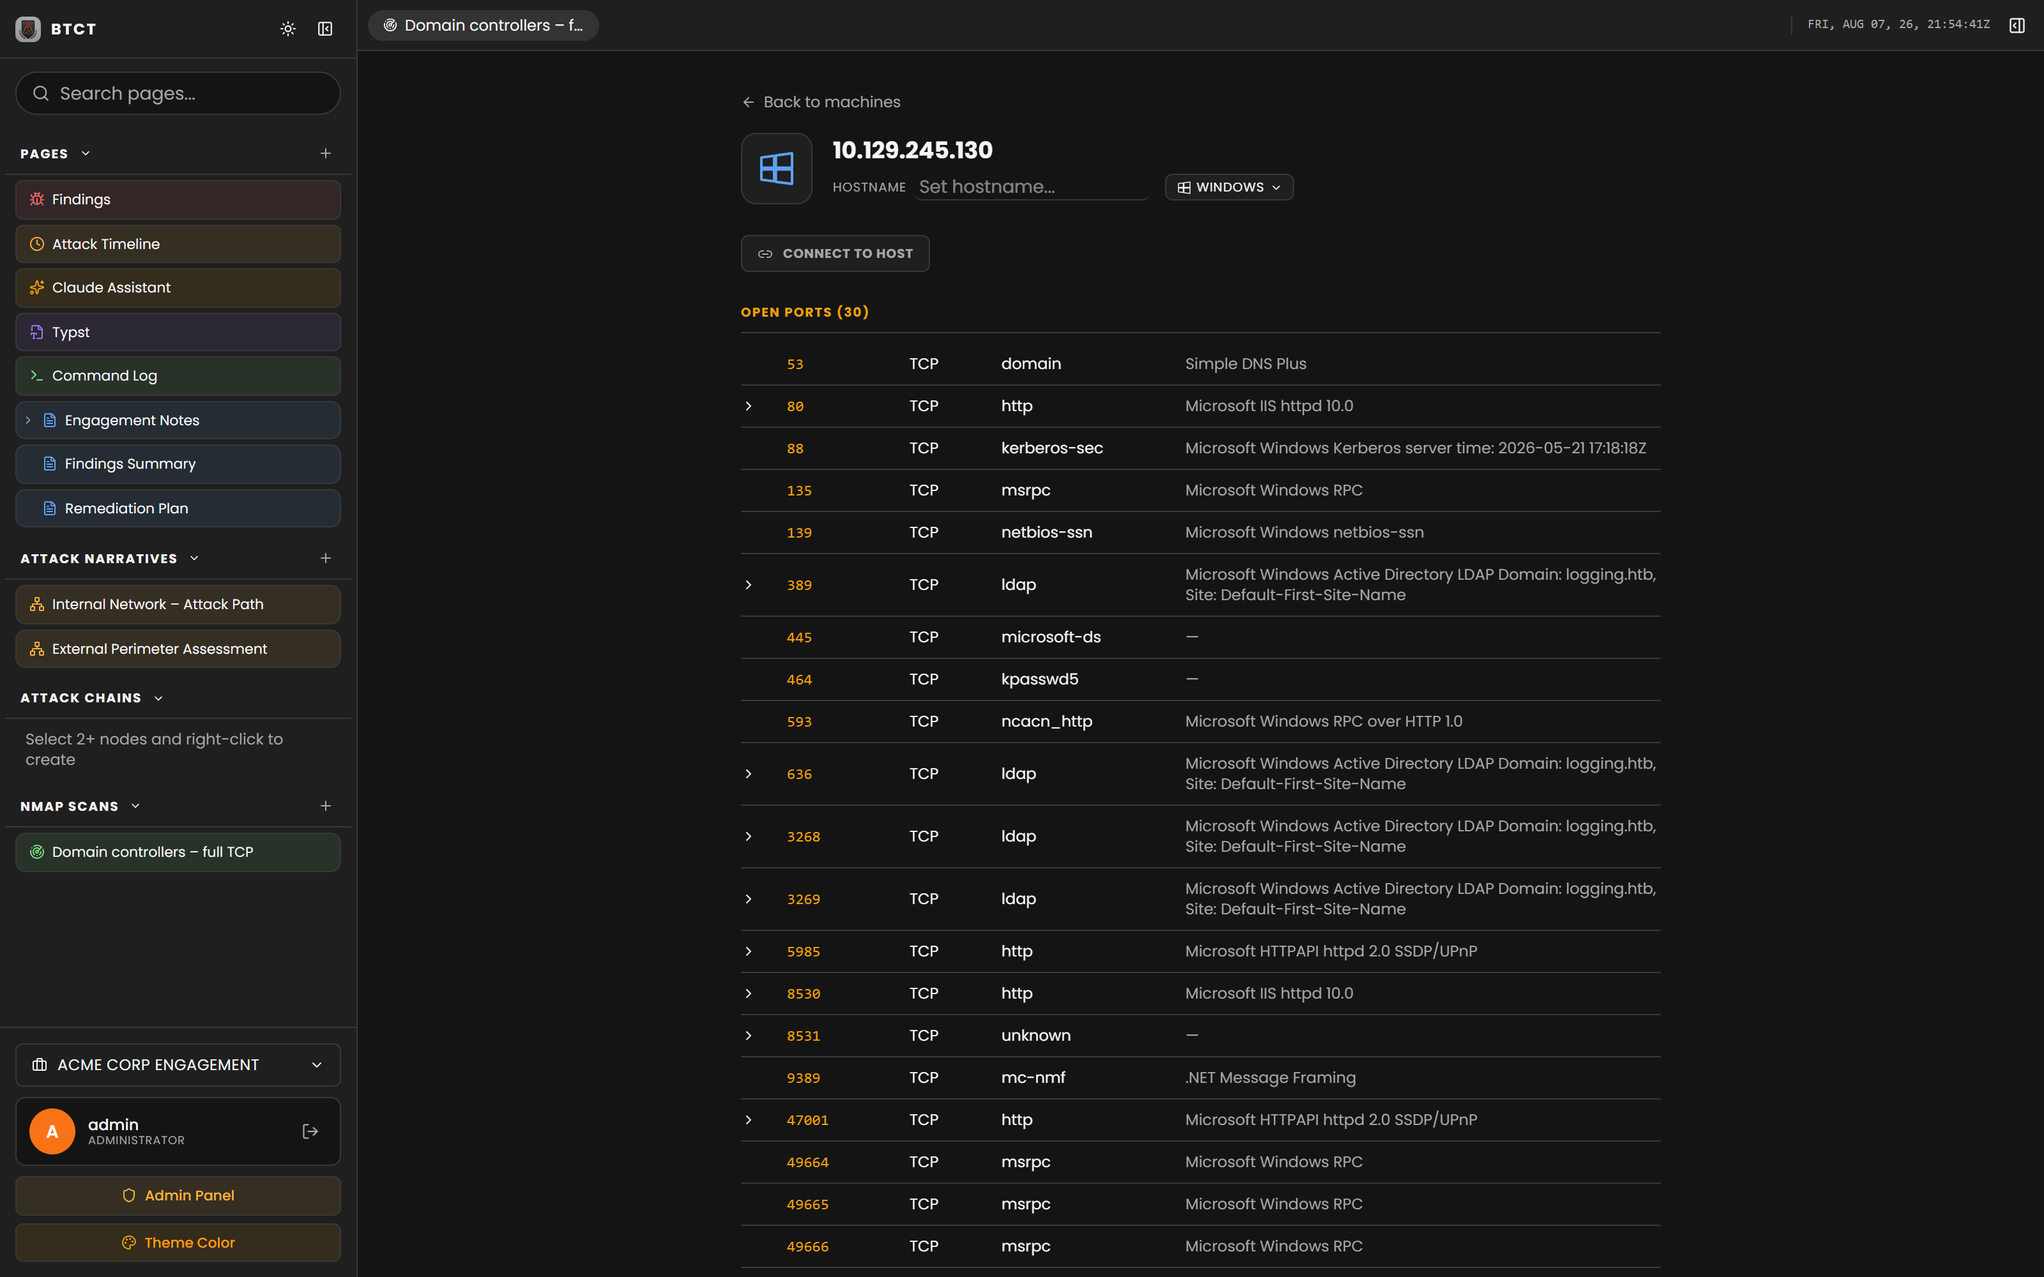
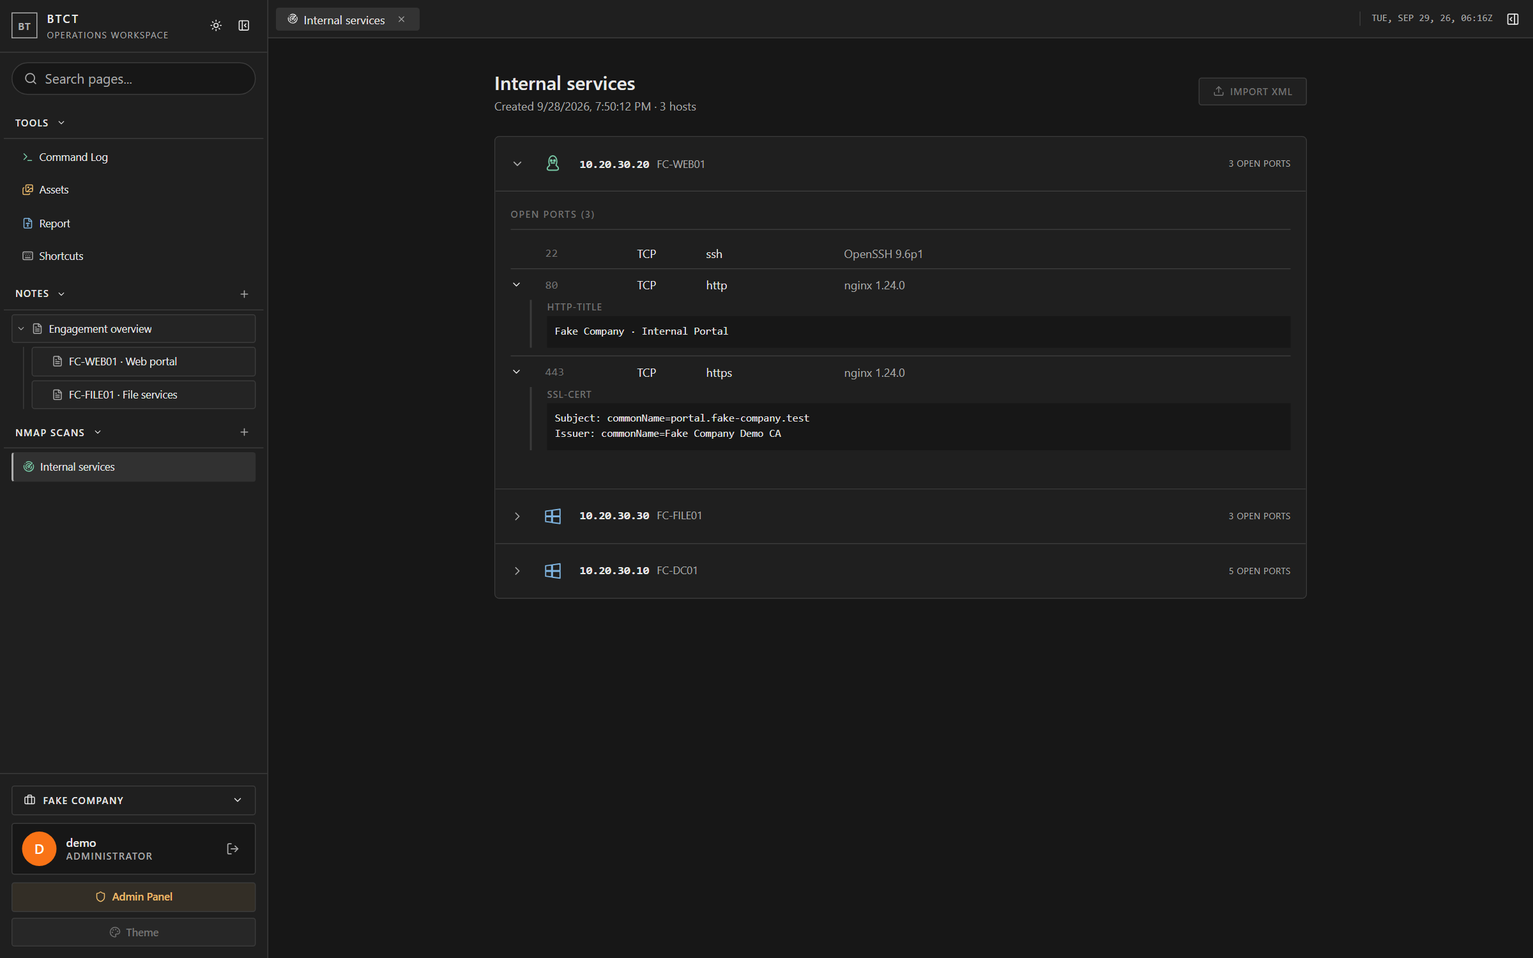
Refocus BTCT post on team workflow and refresh screenshots

diff --git a/_posts/2026-08-08-been-there-conquered-that.md b/_posts/2026-08-08-been-there-conquered-that.md
@@ -1,175 +1,184 @@
----
+---
 title: "How about we not take our pentesting notes in Microsoft Word"
 date: 2026-08-08 00:00:00 -0400
 categories: [Projects, Security Tooling]
-tags: [pentest, cptc, reporting, crdt, typst, react, claude, mcp]
-description: "Been There, Conquered That: a real-time notes and reporting workspace for a collegiate pentest competition."
+tags: [pentest, cptc, reporting, collaboration, self-hosted]
+description: "Why I built Been There, Conquered That: shared pentest notes, scans, and evidence that a team can run on a small machine on its own network."
 ---
 
-*Been There, Conquered That: a real-time notes and reporting workspace for a
-collegiate pentest competition.*
-
-<video class="embed-video file" controls muted loop width="960" style="max-width:100%;height:auto">
-  <source src="/assets/img/posts/btct/btct-demo.mp4" type="video/mp4">
-  Your browser does not support the video tag. Here is a
-  <a href="/assets/img/posts/btct/btct-demo.mp4">link to the video file</a> instead.
-</video>
-
-*Full-quality 1920x1080 clip, one take against a small demo workspace called Fake Company.*
+*Been There, Conquered That: a shared workspace for pentest notes and reporting,
+built to run on a small machine on the team's local network.*
 
 ## Why
 
-All of it went in one Word document. Five of us, same document, all day.
+During collegiate pentest competitions, our team used a shared Word document
+to keep track of our work. It let everyone write in the same place, but as the
+notes grew, it became harder to find a specific command, screenshot, or result.
+Writing the report often meant asking teammates where they'd saved something
+or what a particular note referred to.
 
-To be fair, that mostly works. Word handles five cursors without complaining and
-nothing gets lost. But a few hours things get a little messey and there is alot of back and fourth of where is stuff located and when writing asking the question of who did this and where did you write it down.
+We already use Notion or Obsidian for our own notes, so I wanted a similar way
+to organize our competition work. Separate pages, a sidebar to navigate them,
+and properly formatted code blocks would make it easier to follow what
+everyone was doing.
 
-What actually bothered me is that none of us take notes like that anywhere else.
-We all use Notion or Obsidian for our own stuff, with linked pages, tags, a
-sidebar you can navigate, code blocks that look like code. Then we'd sit down for
-the one weekend of the year that matters and drop straight back to using Word because that's what we have to use.
-
-We did have one purpose-built tool. We ran
+We also used
 [SLORPIN](https://github.com/nationalcptc-teamtools/Cal-Poly-Pomona/tree/master/SLORPIN),
-Cal Poly Pomona's nmap aggregator, which stands for Some Lone Operator Remakes
-Program Intended for Nmap. It's a Go and Gin web app that pulls everyone's scan
-results into one database behind a login, organized into named operations, so you
-can review the team's recon in one place instead of on five separate boxes. That
-part was genuinely useful and it's the reason this project exists at all. But it
-only covers recon, it doesn't sync in real time, and it wasn't something you
-wanted to stare at on hour thirty of a competition.
+Cal Poly Pomona's nmap aggregator, to collect the team's network scans in one
+place. Having those results together was useful, and I wanted a similar place
+for our notes and evidence so we could start writing the report without first
+tracking down everyone's files.
 
-So why not just build the rest of it? Word is fine. It just isn't built
-for this, and there's no rule saying the workflow you use for the
-highest-pressure three days of the year has to be the one you're using for class assignments.
+That's where Been There, Conquered That, or BTCT, came from. It gives the team a
+shared place to work, hosted on the same local network as their machines. One
+person starts it on a small server or spare box, and everyone else opens it in
+a browser.
 
-BTCT is that build. Recon aggregation like SLORPIN had, plus the note-taking, the
-attack narrative, the evidence trail, and the report. All of it in one place, all
-of it live, none of it leaving the LAN. One container, one port, one volume on
-the engagement network.
+It also needed to run on a machine with limited resources and be straightforward
+to set up before a competition. That's why I made the current version lighter:
+the team should be able to share notes over the LAN without maintaining a
+complicated server setup or relying on a cloud service.
 
-## Notes
+## Notes you can find again
 
-The notes view is where the project starts, because that is where CPTC teams lose the most time. During a competition, someone finds a weak password, someone else is still scanning, and another person is already trying to turn that into a report paragraph. If the notes are buried in one long Word document, people spend too much time asking where something was written down.
+Instead of one document that keeps getting longer, BTCT has a tree of pages.
+You can keep an engagement overview at the top, put notes for each host
+underneath it, and give the report draft its own page. Titles, tags, and search
+help when you remember what you found but not where you put it.
 
-BTCT keeps notes as a tree of pages. Each page has a title, slug, tags, and an icon, so the team can split the work by host, service, finding, or report section without making a mess. The editor still feels familiar: type Markdown, use headings and lists, paste commands into code blocks, and keep going.
+The editor is familiar if you've used Markdown. Headings, checklists, tables,
+and code blocks are there, along with a slash menu if you don't remember the
+syntax. Code blocks preserve a command's spacing, which makes it much easier
+for someone else to read and reuse.
 
-![The page editor with an engagement notes document](/assets/img/posts/btct/pages-editor.png)
+![A host note with the team's page tree, observations, and a command block](/assets/img/posts/btct/pages-editor.png)
 
-Type `/` and the editor opens a small block menu for headings, lists, quotes, tables, code, and images.
+*The screenshots in this post use a fictional Fake Company workspace.*
 
-![The slash menu open in the editor](/assets/img/posts/btct/slash-menu.png)
+People can edit the same page together and see each other's cursors. That means
+the person writing up a finding can work from the notes while a teammate adds
+the missing details. Page history gives you a way to review changes and recover
+an earlier version if an edit goes wrong.
 
-Code blocks use CodeMirror, so pasted commands look like commands instead of paragraph text. That sounds small, but it matters when the report team is trying to prove exactly what happened three hours later.
+## Everyone's scans in one place
 
-## The attack path belongs on a graph
+This is the part inspired by SLORPIN. A network scan tells you which machines
+are reachable and what services they're exposing. It's useful to the whole
+team, but only if the results aren't stuck on the laptop that ran it.
 
-A written narrative is useful in the final report. It is not always the best way to think while the attack is still unfolding.
+BTCT imports nmap XML files into scan groups. Open a host and you can see its
+ports, service versions, and extra details from the scan. If someone scans that
+host again in the same group, the results merge into its existing entry.
 
-BTCT gives each workspace one or more attack graphs. A node can be a host, service, credential, pivot, or finding. Each node carries useful data, not decoration. A finding carries the fields the report needs later: severity, CVSS, likelihood, impact, exploit steps, MITRE mapping, evidence, and remediation.
+![An imported nmap host with its open ports and service details](/assets/img/posts/btct/nmap-host.png)
 
-![The attack narrative graph for an internal network engagement](/assets/img/posts/btct/attack-graph.png)
+Now a teammate can check whether a service was already found before spending
+time scanning it again. The report writer can look up the same host without
+asking someone to send over their terminal output.
 
-For CPTC, this helps the team agree on the story faster. If FC-WEB01 leads to FC-SQL01, which exposes a service account, which leads to a domain controller issue, that path is visible. A teammate can open the graph and understand the chain without reading five pages first.
-
-The graph can also highlight a path between two nodes and lay itself out automatically. That makes it easier to clean up the narrative before reporting, especially when the board starts as a rough map built during exploitation.
-
-## Findings come from the work
-
-The findings list is generated from finding nodes across the workspace. It is grouped by severity and sorted by CVSS, so the report writer is not maintaining a second spreadsheet while everyone else is still changing the facts.
-
-![The findings collector grouped by severity](/assets/img/posts/btct/findings.png)
-
-That is the real advantage: the same finding used in the attack graph can feed the report view. When the team edits the remediation or adds better evidence, the update stays attached to the finding instead of living in a separate document that someone has to reconcile later.
-
-The timeline uses the same idea. It orders the workspace by discovery time and shows incoming edges under each item, so the team can turn a messy day of work into a cleaner narrative.
-
-![The attack timeline, grouped by day with edge lineage](/assets/img/posts/btct/timeline.png)
-
-One button copies the timeline as Markdown. It will not write the final report for you, which is a good thing. It gives you a starting outline that already has the order and lineage right.
-
-## Nmap import keeps recon connected
-
-Recon usually starts as files scattered across operator machines. BTCT lets the team drop nmap XML into a scan group, then parses hosts, ports, service versions, OS guesses, and NSE script output.
-
-![A parsed nmap host with its open ports and service versions](/assets/img/posts/btct/nmap-host.png)
-
-Re-importing the same host merges the ports instead of duplicating the machine. A scanned host can also be linked to a host node on the graph. Once that link exists, the open ports and service names stay close to the attack path and the write-up.
-
-The demo uses a small fake environment scan:
-[`fake-environment.xml`](/assets/img/posts/btct/fake-environment.xml). It is an `nmap -sS -sV -sC -O` run over a five-host demo network, with one intentionally down host so the parser has to ignore it.
-
-## The command log saves the receipts
-
-This is the feature I would want most during CPTC.
-
-A small Python agent runs on each operator's box. It uses the standard library, so there is no pile of dependencies to install on a competition machine. A shell hook records approved tools as they run and sends BTCT the operator name, host, working directory, command, start time, exit code, and duration.
-
-![The command log showing captured commands from three operators](/assets/img/posts/btct/command-log.png)
-
-The goal is not surveillance. It is evidence. When someone says, "I got a shell on SQL," the command, timing, and target can already be in the shared log. The report team can filter by operator, host, tool, status, or text, then export the result as CSV or JSON for an appendix.
-
-Secrets are redacted before they leave the operator's machine. Passwords, hashes, auth headers, and URL credentials become `[REDACTED]`. The original command stays in a local log on that operator's box.
-
-For a collegiate penetration testing competition, this cuts down on the worst kind of end-of-day work: asking every teammate to remember what they ran, where they ran it, and whether it mattered.
-
-## The report stays local
-
-BTCT includes a Typst tab with source on the left, a rendered preview in the middle, and assets on the right.
-
-![The Typst editor with a live-rendered report preview](/assets/img/posts/btct/typst-report.png)
-
-The compiler and renderer run in WebAssembly inside the app. The default fonts are bundled. That means the report can render without sending content to an outside service, which matters on a competition network where internet access may be limited or where the engagement data should stay on the LAN.
-
-Screenshots can be assigned to figure slots instead of pasted wherever the cursor happens to be. Empty figures stay visible as placeholders, so missing evidence is obvious before submission. Click in the rendered preview and the editor jumps back to the matching source line.
-
-## Split panes keep people oriented
-
-Tabs can be dragged into split panes. Notes, graphs, findings, timeline, command log, Typst, and the assistant can sit next to each other.
-
-![The graph and a notes page side by side in split panes](/assets/img/posts/btct/split-panes.png)
-
-That is not a flashy feature. It is a practical one. Put the attack graph on the left and the write-up on the right. Keep the nmap host open beside the finding. Review the command log while filling in evidence. Fewer window hops means fewer chances to lose your place.
-
-## Live sync without a traditional database
-
-Under the hood, BTCT uses Yjs, a CRDT library, to sync the workspace over WebSockets. A CRDT is a data structure built for collaborative editing. It lets multiple people change the same shared document and merge those changes without one person's save wiping out someone else's work.
-
-Records live in shared maps, and collaborative text fields use shared text objects. Page bodies have their own documents, which lets the editor show remote cursors and name tags. IndexedDB caches the workspace locally, so the interface can load quickly and catch up when the connection comes back.
-
-The high-level version is simpler: everyone is looking at the same workspace, even when the work is split across notes, graphs, scans, findings, commands, and the report.
-
-## Command palette
-
-`Ctrl/Command+K` opens the command palette. From there, you can create a page or graph, open the Typst report, jump to a scan, search the workspace, ask the assistant, or switch themes.
-
-![The command palette](/assets/img/posts/btct/command-palette.png)
-
-This is there for speed. During a competition, navigation should not become another task.
-
-## Claude and MCP
-
-The admin panel can store an Anthropic API key on the server. The key does not go into the browser bundle.
-
-![Admin panel showing the Claude AI, MCP server, and command log settings](/assets/img/posts/btct/admin-ai-mcp.png)
-
-The in-app assistant can read the current workspace and, when allowed, write back to it. It can create pages, graph nodes, findings, and links using the same shared data model as the rest of the app. There are no delete tools exposed to the assistant.
-
-BTCT also exposes an MCP endpoint at `POST /mcp`, so an outside client like Claude Code can inspect the same workspace through a bearer token.
-
-```bash
-claude mcp add btct --transport http http://<host>:8080/mcp \
-  --header "Authorization: Bearer <token>"
-```
-
-The point is not to make AI the center of the workflow. The point is to let it help with the repetitive parts, like turning a scan host into a graph node or drafting a finding shell, while the team keeps control of the evidence and final wording.
-
-## Stack
-
-The app uses Bun, React, Vite, Tailwind, Milkdown, ProseMirror, React Flow, CodeMirror, and Typst in the browser.
-
-The server is intentionally small. It handles login, static hosting, the WebSocket relay, assets, AI calls, and command-log ingest. Most of the competition data model lives in the shared Yjs document, which is why the client can stay useful when the network is unreliable.
-
-That shape fits CPTC well: one container, one port, one shared workspace, and a report process that starts while the technical work is still happening.
-
-
+## Keep the screenshots with the notes
+
+A screenshot is much more useful when you know what it proves. Paste one into
+a note and BTCT adds it to the shared asset library too. The team can organize
+images into folders, crop them to the relevant area, and blur details before
+using them in the report.
+
+![Cropping a shared demo screenshot and blurring a selected field in the image editor](/assets/img/posts/btct/assets-library.png)
+
+Those edits are reusable. If the same image appears in a note and the report,
+you don't have to prepare two separate copies. BTCT keeps the original so the
+crop or blur can be adjusted later; the library itself isn't a place to hide
+information from your teammates.
+
+I want to be able to open a finding's notes and see the explanation beside the
+evidence. A folder full of unnamed screenshots doesn't give the next person
+much to work with.
+
+## What did we actually run?
+
+By the time you're writing the report, the exact command that worked can be
+surprisingly hard to remember. It might be in someone's shell history, or it
+might be three terminal windows back on a machine they aren't using anymore.
+
+BTCT has a shared command log for this. A small agent on each operator's machine
+records configured tools as they're used, along with who ran them, when they
+ran, and their exit status. It saves the command line, not the terminal output.
+The team can filter the log by operator, host, or tool, then export the relevant
+entries for the write-up. There's also a manual entry option for work the agent
+didn't capture.
+
+![The shared command log showing three commands from two operators](/assets/img/posts/btct/command-log.png)
+
+The agent attempts to redact recognized passwords, hashes, and other secrets
+before sending a command. That doesn't cover every possible command format,
+and manually entered commands aren't automatically redacted.
+
+The log won't explain why a command mattered. That's still a note someone needs
+to write. It does save the team from having to reconstruct the command and its
+timing from memory.
+
+## Write the report beside the work
+
+The optional report editor keeps the draft in the same workspace as the notes
+and screenshots. It uses Typst, a text-based document tool: you write the source
+on one side and see the formatted pages on the other. Teammates can work on the
+report together, just as they can with notes.
+
+![The report source beside its rendered preview and evidence assets](/assets/img/posts/btct/typst-report.png)
+
+Screenshots from the shared library can fill figure slots in the report, and
+empty slots make missing evidence easy to spot. Split panes also let you keep a
+host's notes or scan results next to the section you're writing.
+
+Typst does take some learning if you're used to Word. I kept it optional so a
+team can use BTCT for notes and evidence without adopting another writing tool.
+When it's enabled, the preview and browser PDF export use files served by the
+local app. The draft doesn't need to go to an outside rendering service.
+
+## Why I made it smaller
+
+Earlier versions had an attack graph, a separate findings view, a timeline,
+and an AI assistant. I cut those from the current app. They added code and
+screens to maintain, while the reason I started building this was much simpler:
+keep the team's work organized and make it easier to write up.
+
+The target is a LAN host with roughly 1 to 2 GB of RAM and one or two CPU cores.
+That's a design target, not a promise that every report or workspace will use
+the same amount of memory. The browsers have work to do too, especially when
+editing large pages or rendering reports.
+
+So the interface is simpler now. Heavy editors and image tools load when
+opened, closed notes release their live connections after saving locally, and
+the report tools stay unloaded unless they're used. There are fewer decorative
+effects running while someone is just trying to read a page.
+
+## The stack, and why it's there
+
+The client uses React and TypeScript, built with Vite and styled with Tailwind.
+I kept the existing editor and collaboration pieces while trimming what the
+app loads up front. Milkdown and ProseMirror provide the note editor; CodeMirror
+handles code blocks. Those give the team familiar editing behavior without
+having to build a text editor from scratch.
+
+Yjs handles live collaboration over WebSockets, so concurrent edits can merge
+without one person's save replacing another's. IndexedDB keeps a local browser
+cache, which helps notes recover after a dropped connection. That cache is
+useful on an unreliable network, but the shared server still needs backups.
+
+The server runs on Bun and handles login, file serving, uploads, and the shared
+connections. SQLite stores things like accounts and the command archive, while
+LevelDB persists the collaborative documents. Neither needs a separate database
+server to administer. The live command feed only syncs a recent window of
+entries; older commands remain in the archive instead of making every browser
+carry the full history.
+
+Typst's browser compiler uses WebAssembly and loads with the optional report
+editor. Its default fonts are bundled locally. This keeps normal report
+preview work off the small host, though the operator's browser needs the memory
+to compile the document. Additional Word and server PDF export options use the
+host's resources when available.
+
+Docker packages the server and built client together, with persistent data on
+a volume. The team has one service to start on the LAN and one address to open
+in a browser. That's about as much setup as I want before we can start taking
+notes.
